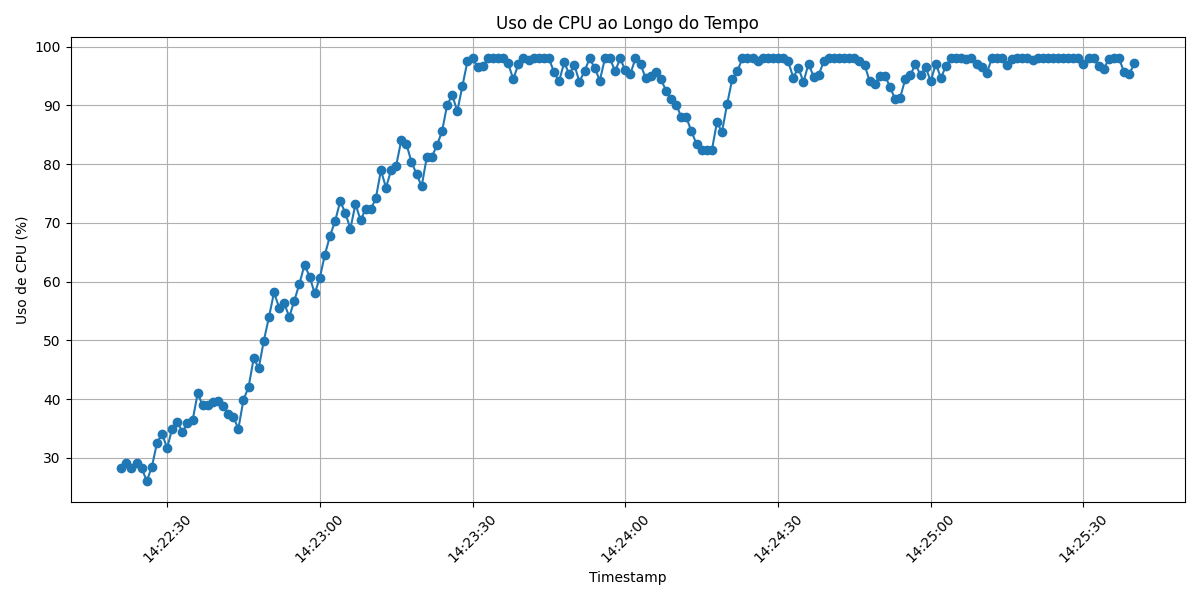
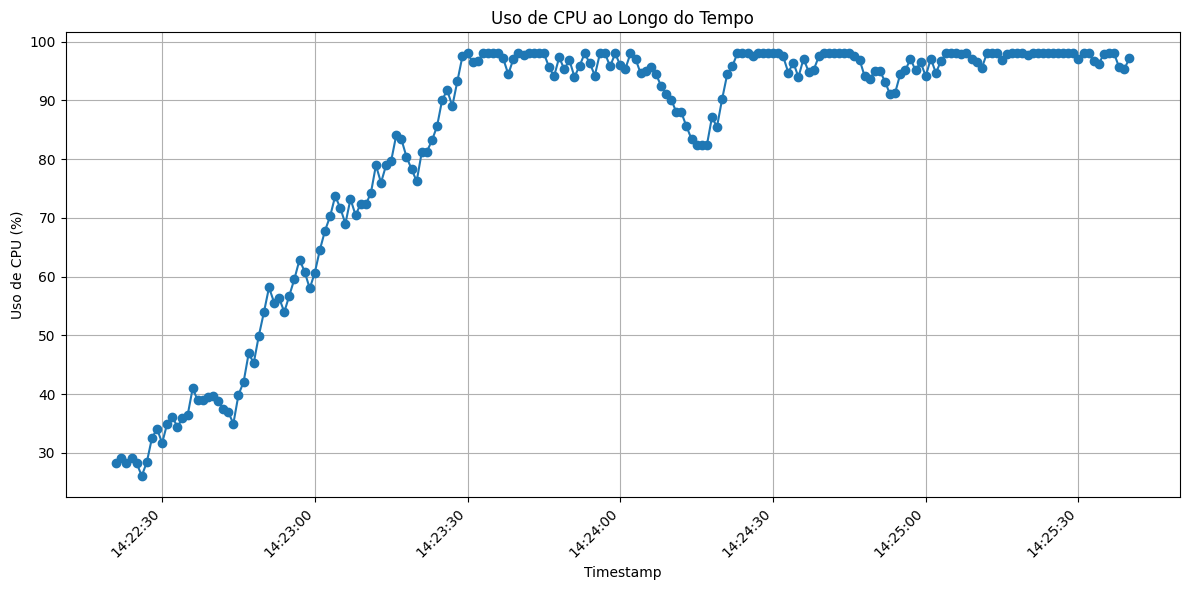
feat: Test Implementation

Changed region(s): [[0.0, 0.0, 0.9958, 0.9763]]

diff --git a/zoo/main.py b/zoo/main.py
@@ -1,0 +1,57 @@
+import pandas as pd
+import matplotlib.pyplot as plt
+
+
+def load_data(file_path: str) -> pd.DataFrame:
+    return pd.read_csv(file_path, parse_dates=['timestamp'])
+
+
+def generate_and_save_charts(df: pd.DataFrame) -> None:
+    """Gera e salva os três gráficos a partir do DataFrame fornecido."""
+    expected = {"timestamp", "cpu_usage_percent", "memory_usage_mb", "api_response_time_ms"}
+    if not expected.issubset(df.columns):
+        missing = expected - set(df.columns)
+        raise ValueError(f"Colunas ausentes no CSV: {missing}")
+
+    # CPU
+    plt.figure(figsize=(12, 6))
+    plt.plot(df["timestamp"], df["cpu_usage_percent"], marker="o", linestyle="-")
+    plt.title("Uso de CPU ao Longo do Tempo")
+    plt.xlabel("Timestamp")
+    plt.ylabel("Uso de CPU (%)")
+    plt.grid(True)
+    plt.xticks(rotation=45, ha="right")
+    plt.tight_layout()
+    plt.savefig("grafico_linha_cpu.png", bbox_inches="tight")
+    plt.close()
+
+    # Memória
+    plt.figure(figsize=(12, 6))
+    plt.plot(df["timestamp"], df["memory_usage_mb"], marker="o", linestyle="-")
+    plt.title("Uso de Memória ao Longo do Tempo")
+    plt.xlabel("Timestamp")
+    plt.ylabel("Uso de Memória (MB)")
+    plt.grid(True)
+    plt.xticks(rotation=45, ha="right")
+    plt.tight_layout()
+    plt.savefig("grafico_linha_memoria.png", bbox_inches="tight")
+    plt.close()
+
+    # API Response
+    plt.figure(figsize=(10, 6))
+    plt.hist(df["api_response_time_ms"], bins=20, edgecolor="black")
+    plt.title("Distribuição do tempo de resposta da API")
+    plt.xlabel("Tempo de resposta (ms)")
+    plt.ylabel("Frequência")
+    plt.tight_layout()
+    plt.savefig("histograma_api.png", bbox_inches="tight")
+    plt.close()
+
+
+def main() -> None:
+    df = load_data("dados_performance.csv")
+    generate_and_save_charts(df)
+
+
+if __name__ == "__main__":
+    main()

diff --git a/tests/test_main.py b/tests/test_main.py
@@ -1,0 +1,9 @@
+import unittest
+import pandas as pd
+from zoo.main import load_data
+
+def test_load_datas_return_dataFrame(self):
+    df = ('dados_performance.csv')
+    self.assertIsInstance(df, pd.DataFrame)
+    colunas_esperadas = {"timestamp", "cpu_usage_percent", "memory_usage_mb", "api_response_time_ms"}
+    self.assertTrue(colunas_esperadas.issubset(df.columns))
